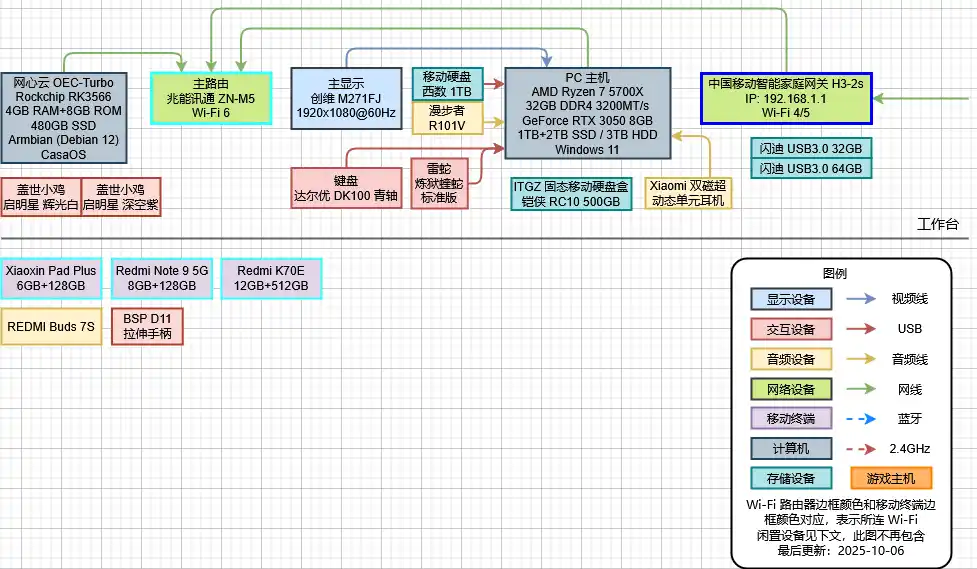
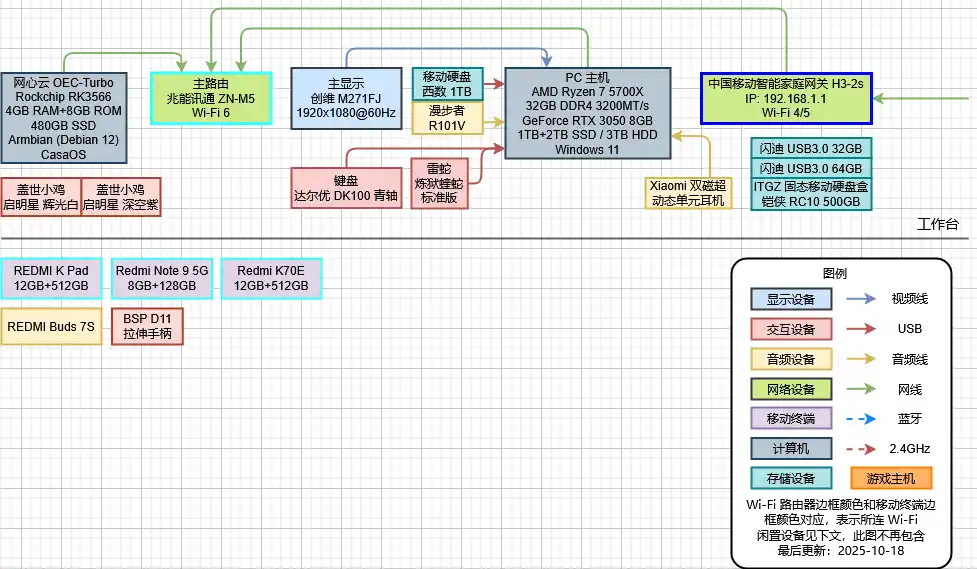
Update 2022-01-27-my-devices.md

diff --git a/source/_posts/2022-01-27-my-devices.md b/source/_posts/2022-01-27-my-devices.md
@@ -3,7 +3,7 @@ title: "我的电子设备们"
 top_img: false
 ---
 
-- **最后更新**：2025-10-12
+- **最后更新**：2025-10-18
 
 <img src="/img/in-post/device-map.webp" />
 
@@ -152,7 +152,7 @@ top_img: false
 
 ### 红米 Note 3 双网通
 - **状态**: 闲置
-- **备注**: 听筒、前置摄像头等不工作
+- **备注**: 电池衰减严重，听筒、前置摄像头等不工作，指纹识别排线被我不小心扯断了
 - **购买时间**: 2016-01-28
 - **SoC**: MediaTek Helio X10
 - **GPU**: Imagination PowerVR G6200
@@ -235,7 +235,7 @@ top_img: false
 - **OS**: Android 15 (Xiaomi HyperOS 2)
 
 ### 联想小新 Pad Plus
-- **状态**: 现主要用于副屏
+- **状态**: 给家人用
 - **购买时间**: 2022-04-17
 - **SoC**: 高通骁龙 750G
 - **GPU**: Adreno 619
@@ -245,7 +245,7 @@ top_img: false
 - **OS**: Android 12 (ZUI 14)
 
 ### 易百分 YBFA9
-- **状态**: 他人使用，电池衰减严重
+- **状态**: 闲置，电池衰减严重
 - **备注**: [实际是山寨产品](https://kevinh.wang/fake-phone/)
 - **购买时间**: 2021-12
 - **SoC**: MediaTek MT6753
@@ -267,7 +267,7 @@ top_img: false
 
 ### 荣耀畅玩平板 2
 - **状态**: 闲置
-- **备注**: 外屏玻璃破碎，被我拆坏了
+- **备注**: 外屏玻璃破碎
 - **购买时间**: 2018-02-19
 - **SoC**: MediaTek MT8127
 - **GPU**: Arm Mali-450 MP4
